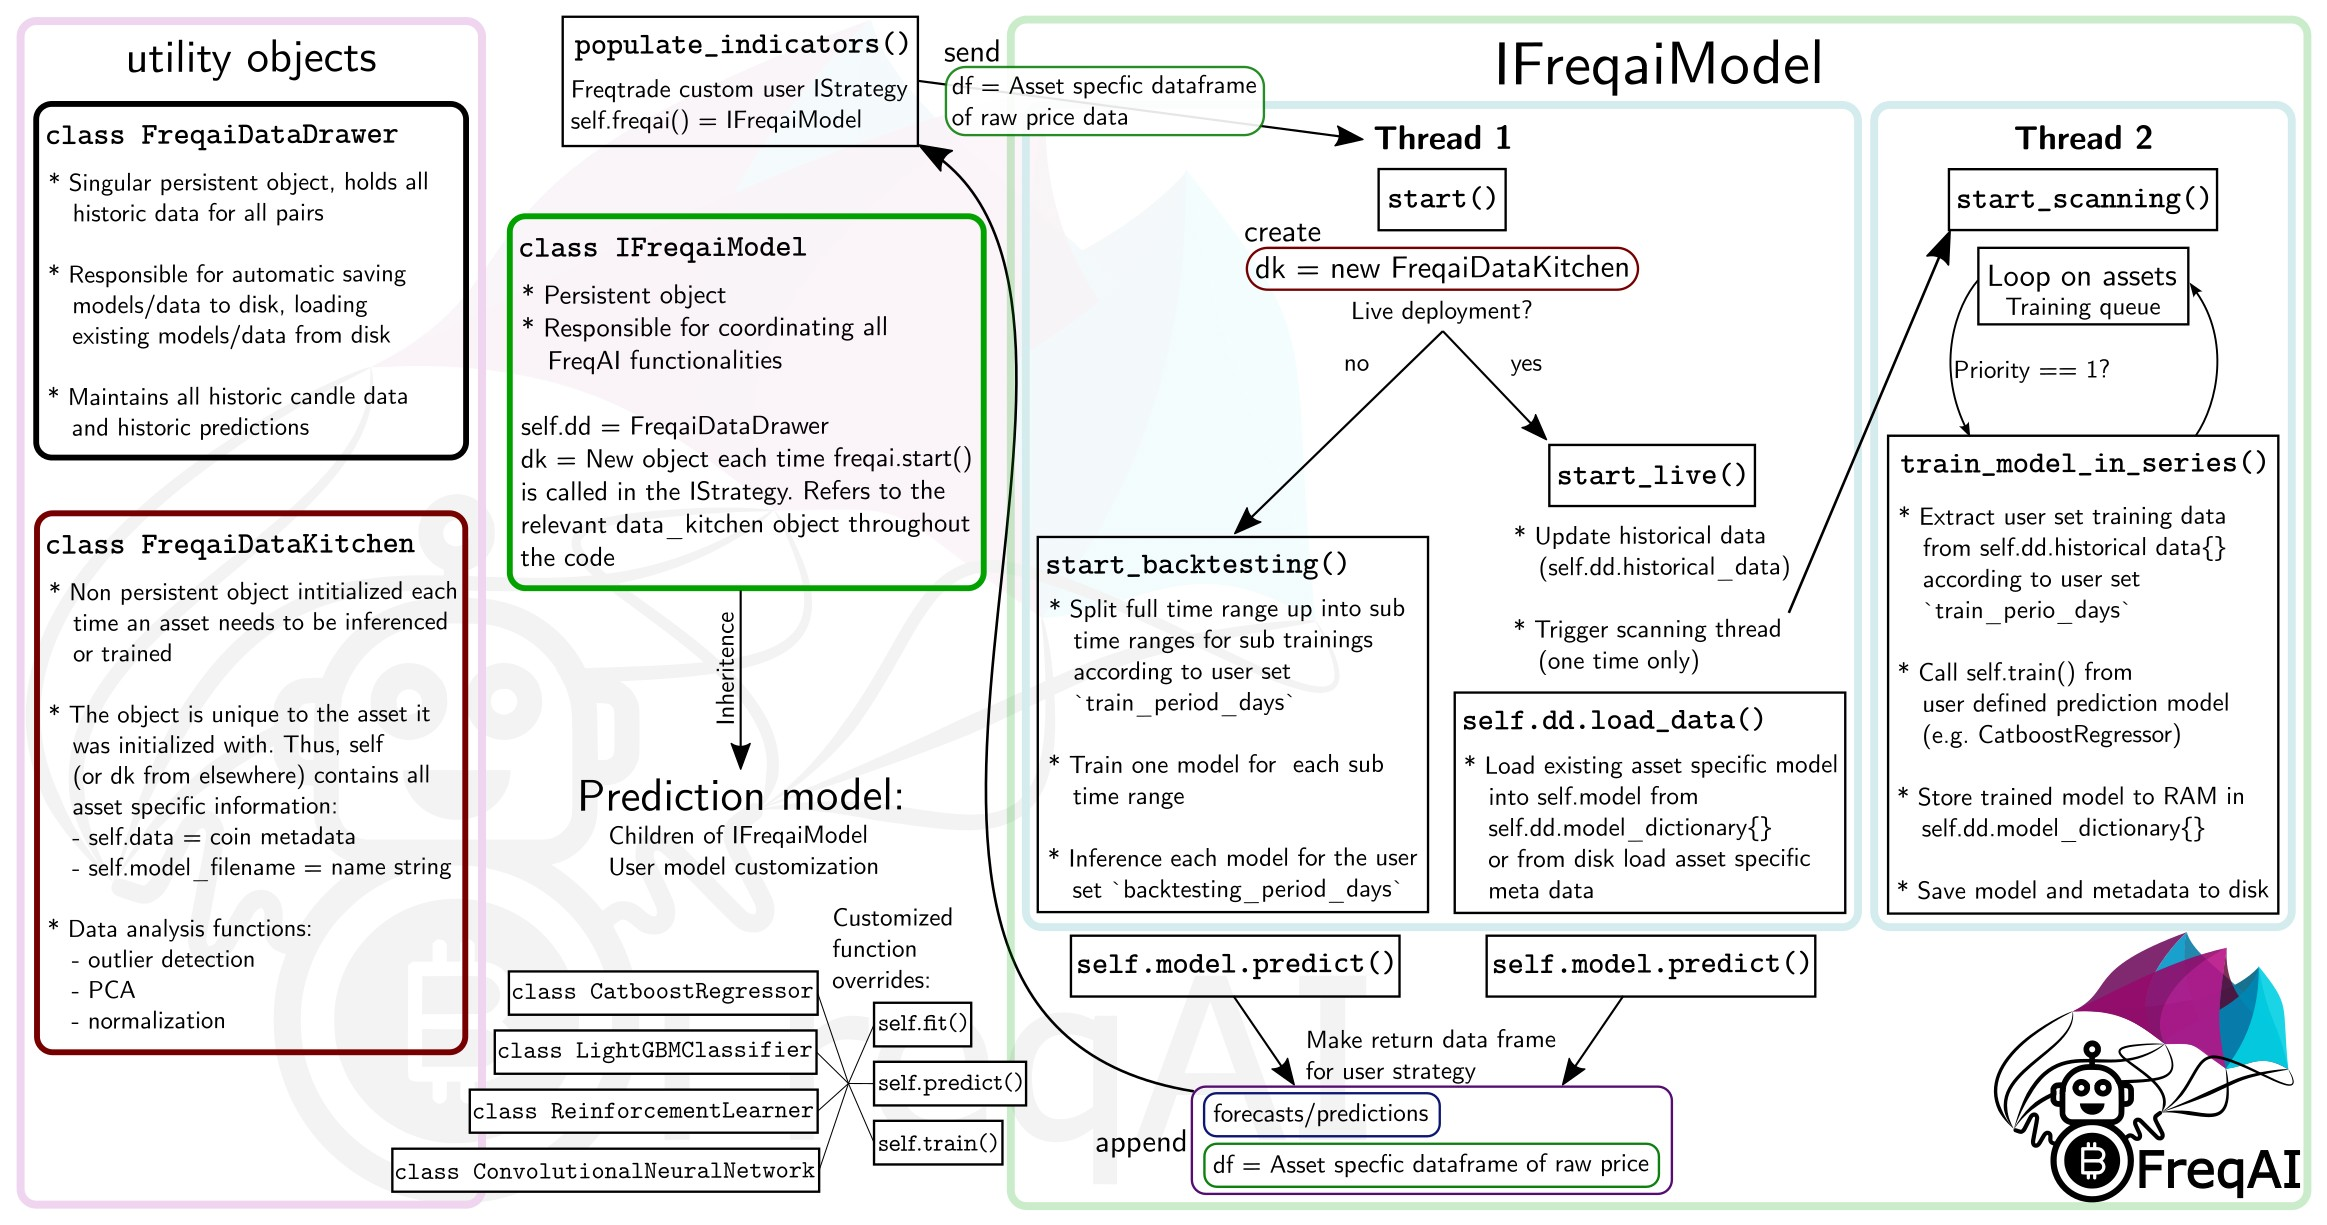
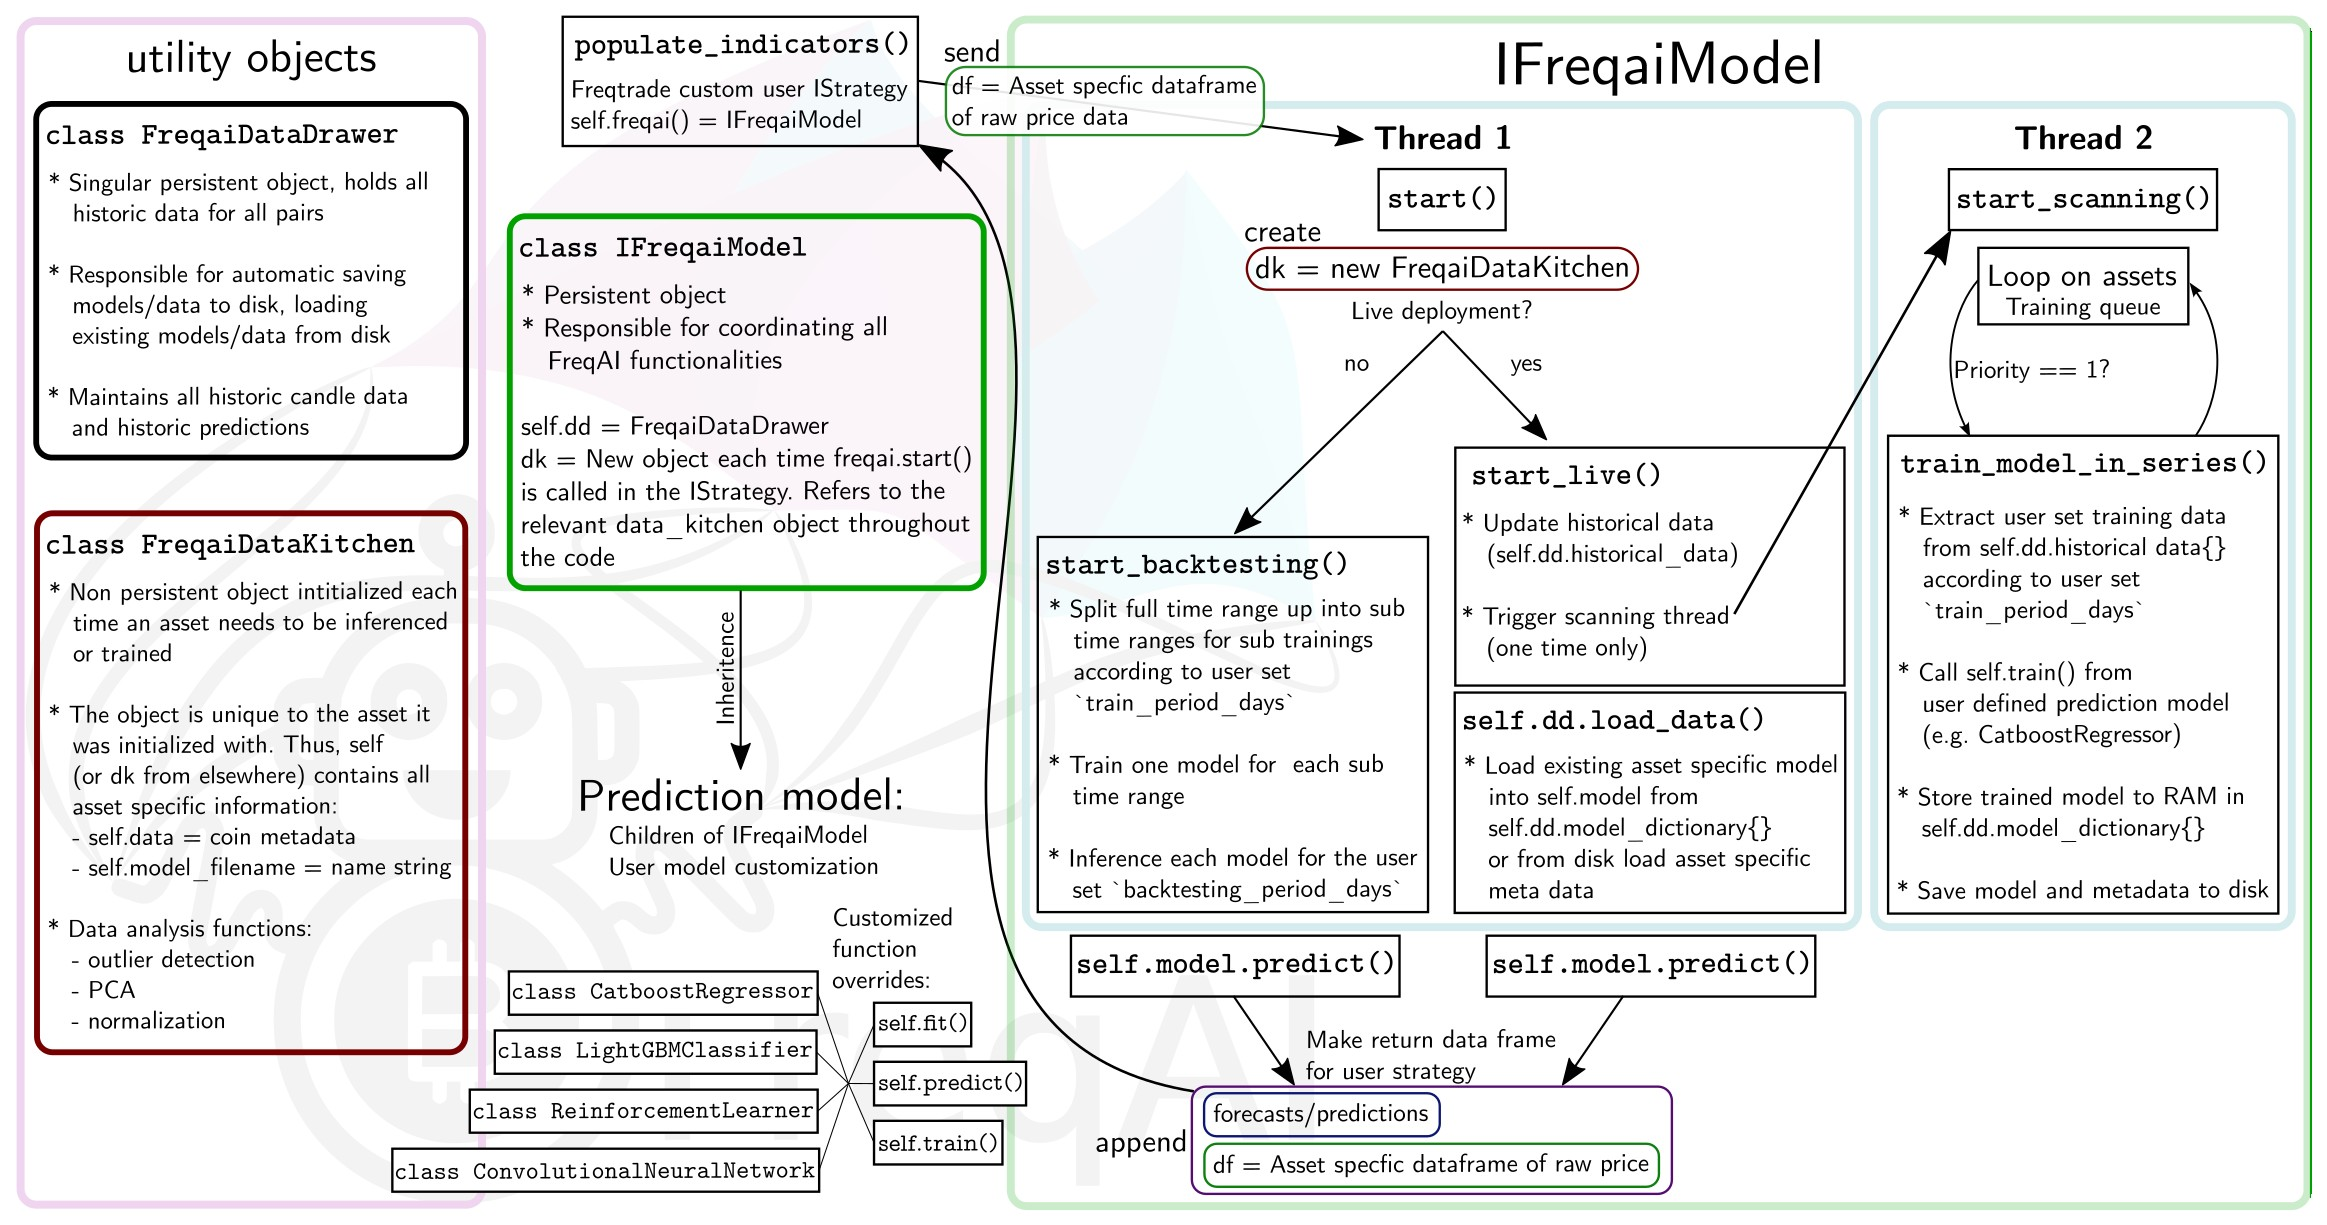
improve class diagram

diff --git a/docs/freqai.md b/docs/freqai.md
@@ -4,7 +4,7 @@
 
 ##Introduction
 
-FreqAI is a module designed to automate a variety of tasks associated with training a predictive machine learning model to generate market forecasts given a set of input features.
+FreqAI is a software designed to automate a variety of tasks associated with training a predictive machine learning model to generate market forecasts given a set of input features.
 
 Features include:
 